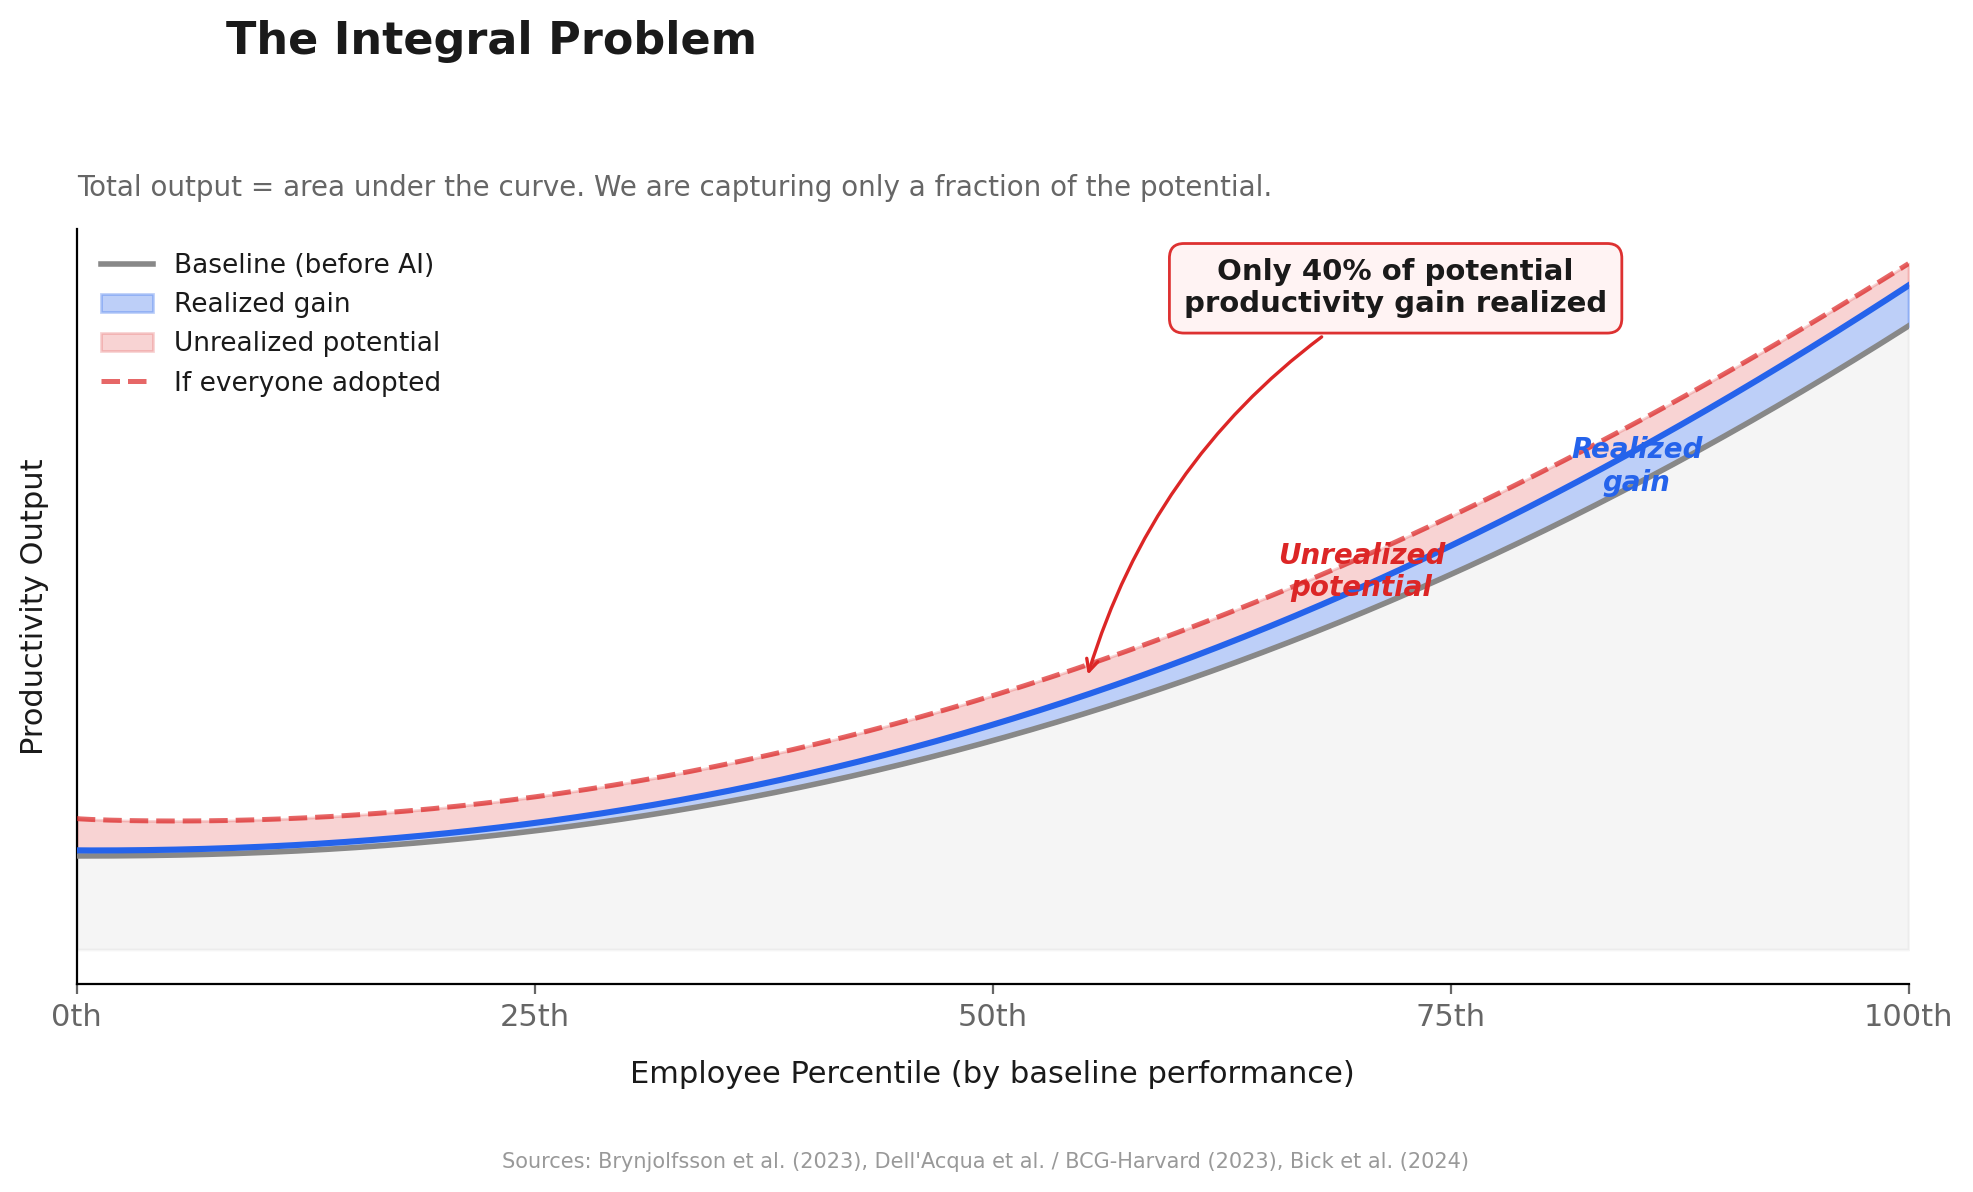
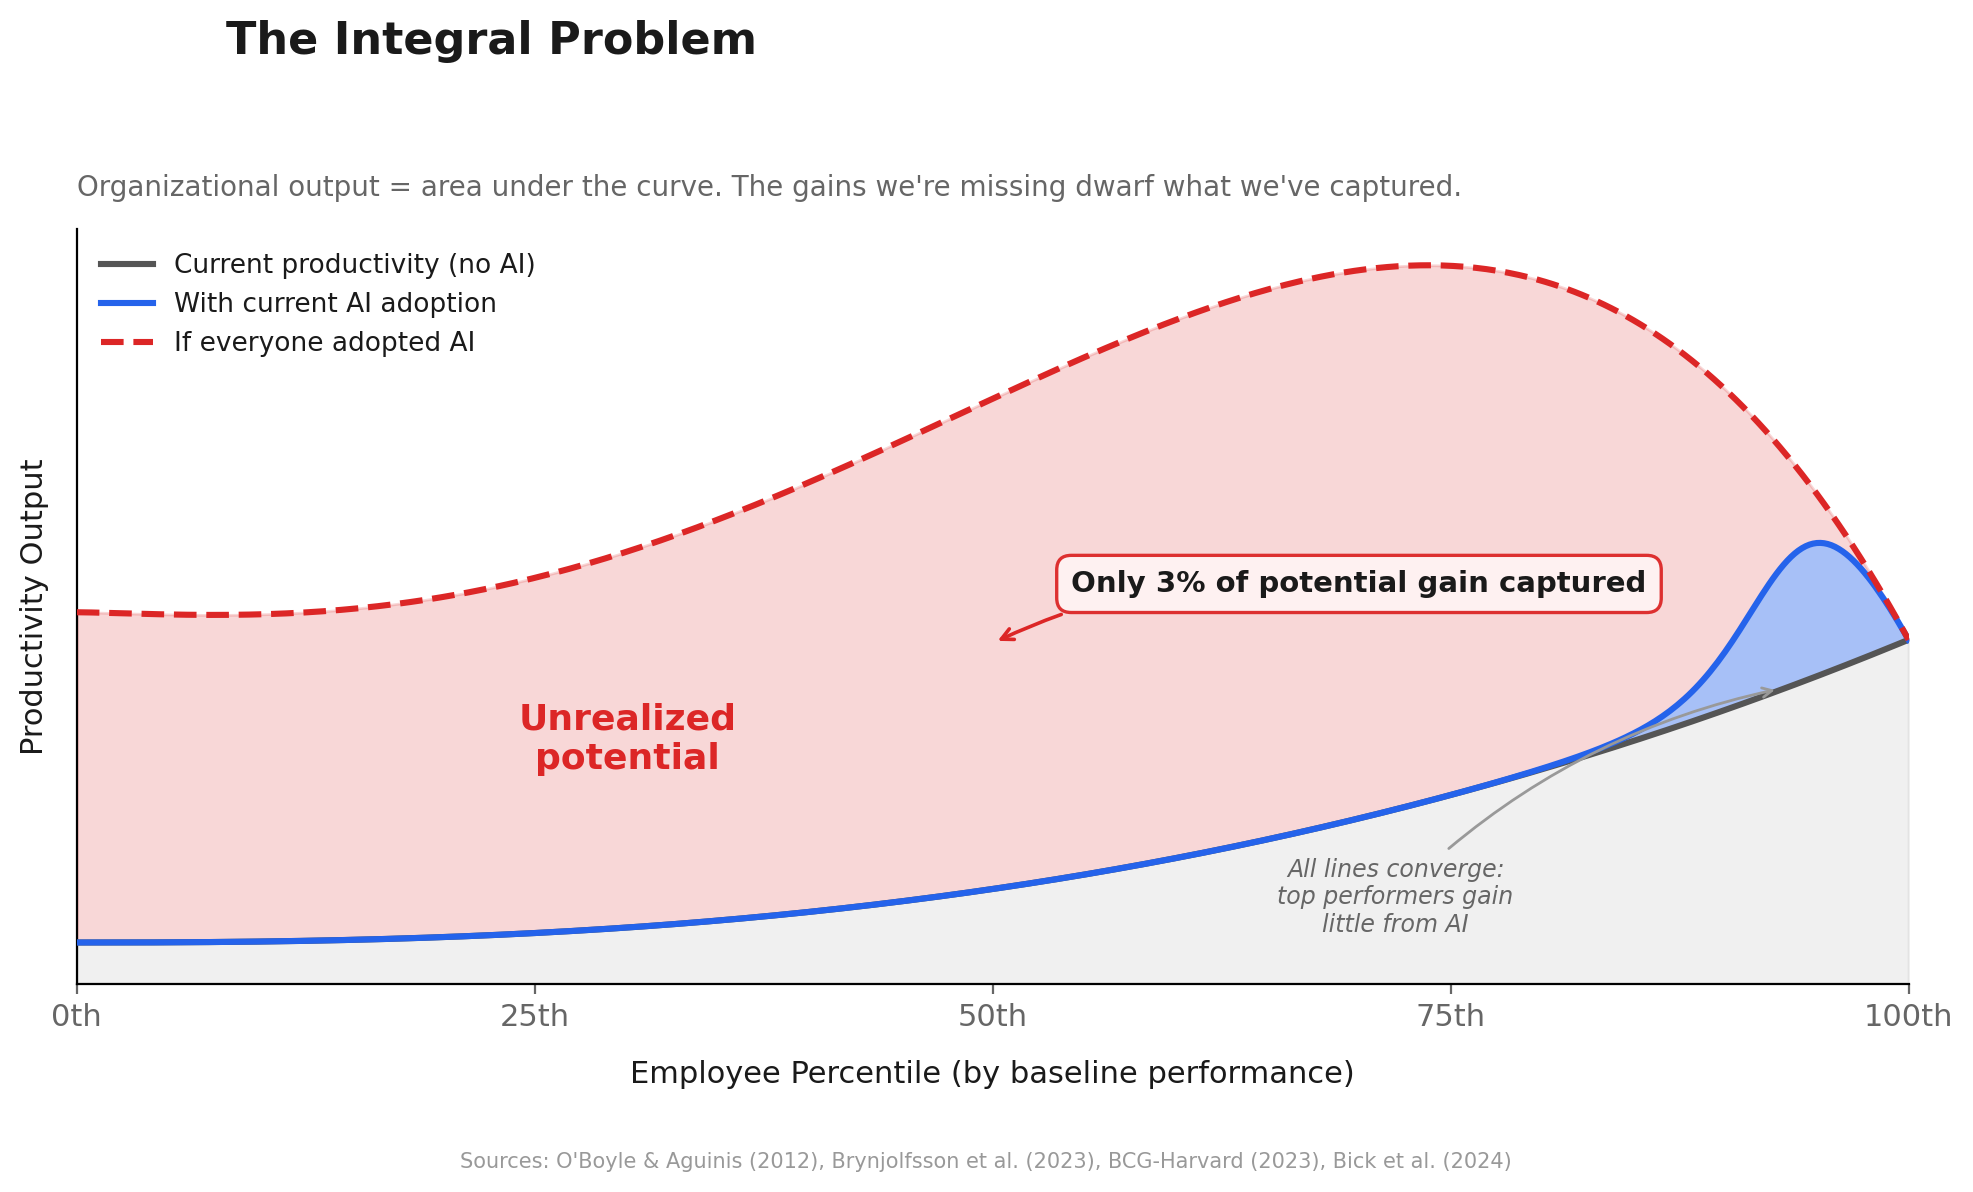
fix: rebuild integral problem chart with converging curves
Three-curve design: baseline, current adoption (top 5% only),
and universal adoption. Lines converge at top percentiles where
gains approach zero. Unrealized potential concentrated on left.

diff --git a/ai-productivity-gap/notebooks/chart2_the_integral_problem.py b/ai-productivity-gap/notebooks/chart2_the_integral_problem.py
@@ -1,23 +1,14 @@
 """
-Chart 2: The Integral Problem (area chart rework)
-Filled area chart showing three zones:
-  1. Baseline productivity (gray)
-  2. Realized gains (small blue area -- only where people actually adopt)
-  3. Unrealized potential (large red area -- the gap)
+Chart 2: The Integral Problem -- three-curve visualization
 
-The productivity curve follows a power-law distribution (right-skewed),
-reflecting that top performers have disproportionately high output.
+Three lines across employee percentiles:
+  1. Baseline productivity (power-law)
+  2. With current AI adoption (barely differs from baseline)
+  3. If everyone adopted AI (massive lift at bottom, converges to baseline at top)
 
-The "after AI" realized curve shows small uplift on the right (high adopters,
-low gain per person) and almost nothing on the left (high potential gain,
-but very low adoption). The theoretical "if everyone adopted" curve shows
-the full potential -- making the gap visually obvious.
-
-Data grounding:
-- Baseline productivity: power-law / right-skewed distribution
-- Bottom performers: +35-43% gain, ~15-20% adoption
-- Top performers: +7-17% gain, ~60-73% adoption
-- Sources: Brynjolfsson et al. (2023), Dell'Acqua et al. (2023), Bick et al. (2024)
+Key: individual gain from AI approaches 0 at the top (top performers
+don't gain much). All three lines converge at the 100th percentile.
+The unrealized potential is entirely on the left side.
 """
 
 import matplotlib
@@ -25,7 +16,6 @@ matplotlib.use('Agg')
 import matplotlib.pyplot as plt
 import numpy as np
 
-# --- Shared style ---
 plt.rcParams.update({
     'font.family': 'sans-serif',
     'font.size': 11,
@@ -42,116 +32,108 @@ plt.rcParams.update({
 fig, ax = plt.subplots(figsize=(10, 6))
 
 percentile = np.linspace(0, 100, 500)
-t = percentile / 100  # normalized 0-1
+t = percentile / 100
 
-# --- Baseline productivity: power-law / right-skewed ---
-# Follows a convex curve -- most employees cluster at moderate output,
-# top performers have disproportionately high output.
-baseline = 15 + 85 * (t ** 2.2)
+# --- Line 1: Baseline (power-law) ---
+baseline = 12 + 88 * (t ** 2.5)
 
-# --- Individual gain if using AI (decreases with percentile) ---
-# Bottom quintile: ~40% gain (Brynjolfsson +35%, Dell'Acqua +43%)
-# Top quintile: ~10% gain (Brynjolfsson ~0%, Dell'Acqua +17%, average ~10%)
-individual_gain_pct = 40 - 30 * (t ** 0.7)
+# --- Individual gain from AI ---
+# Bottom: ~800% (9x). Drops to 0% at 100th percentile.
+# Top performers are already productive; AI adds little.
+individual_gain_pct = 800 * (1 - t ** 1.5)
 
-# --- Adoption rate (increases with percentile) ---
-# Bottom: ~15%, Top: ~65% (Bick et al. ~20-40%, Dropbox 59-73%)
-adoption_rate = 15 + 50 * (t ** 1.3)
+# --- Adoption rate: sigmoid at ~93rd percentile ---
+# Near 0% until 85th, ramps to ~100% at 100th.
+adoption_rate = 100 / (1 + np.exp(-50 * (t - 0.93)))
 
-# --- Realized gain = baseline * gain% * adoption% ---
+# --- Line 2: Current reality ---
 realized_gain = baseline * (individual_gain_pct / 100) * (adoption_rate / 100)
+current_with_ai = baseline + realized_gain
 
-# --- Theoretical gain (if 100% adopted) ---
-theoretical_gain = baseline * (individual_gain_pct / 100)
+# --- Line 3: If everyone adopted ---
+full_gain = baseline * (individual_gain_pct / 100)
+everyone_adopted = baseline + full_gain
 
-# Curves
-after_ai = baseline + realized_gain
-theoretical_after = baseline + theoretical_gain
+# --- Stats ---
+area_baseline = np.trapezoid(baseline, percentile)
+area_current = np.trapezoid(current_with_ai, percentile)
+area_everyone = np.trapezoid(everyone_adopted, percentile)
+pct_realized = (area_current - area_baseline) / (area_everyone - area_baseline) * 100
 
-# --- Compute percentage realized ---
-total_theoretical_area = np.trapezoid(theoretical_gain, percentile)
-total_realized_area = np.trapezoid(realized_gain, percentile)
-pct_realized = total_realized_area / total_theoretical_area * 100
+# --- Plot ---
 
-# --- Plot filled areas (bottom to top) ---
+# Baseline fill and line
+ax.fill_between(percentile, 0, baseline, alpha=0.12, color='#888888', zorder=1)
+ax.plot(percentile, baseline, color='#555555', linewidth=2.2,
+        label='Current productivity (no AI)', zorder=5)
 
-# 1. Baseline productivity (gray fill)
-ax.fill_between(percentile, 0, baseline, alpha=0.08, color='#888888', zorder=1)
-ax.plot(percentile, baseline, color='#888888', linewidth=2, label='Baseline (before AI)',
-        zorder=3)
+# Realized gain (thin blue sliver)
+ax.fill_between(percentile, baseline, current_with_ai, alpha=0.40,
+                color='#2563eb', zorder=2)
+ax.plot(percentile, current_with_ai, color='#2563eb', linewidth=2.2,
+        label='With current AI adoption', zorder=5)
 
-# 2. Realized gains (blue fill between baseline and after_ai)
-ax.fill_between(percentile, baseline, after_ai, alpha=0.30, color='#2563eb',
-                label='Realized gain', zorder=2)
-
-# 3. Unrealized potential (red fill between after_ai and theoretical_after)
-ax.fill_between(percentile, after_ai, theoretical_after, alpha=0.20, color='#dc2626',
-                label='Unrealized potential', zorder=2)
-
-# Top boundary line -- theoretical max
-ax.plot(percentile, theoretical_after, color='#dc2626', linewidth=1.8,
-        linestyle='--', alpha=0.7, zorder=3, label='If everyone adopted')
-
-# After AI realized line
-ax.plot(percentile, after_ai, color='#2563eb', linewidth=2.2, zorder=4)
+# Unrealized potential (large red area)
+ax.fill_between(percentile, current_with_ai, everyone_adopted, alpha=0.18,
+                color='#dc2626', zorder=2)
+ax.plot(percentile, everyone_adopted, color='#dc2626', linewidth=2.2,
+        linestyle='--', label='If everyone adopted AI', zorder=5)
 
 # --- Annotations ---
 
-# Label the realized gain area -- place in the blue band on the far right
-# where the band is widest and clearly visible
-idx_85 = int(0.85 * len(percentile))
-realized_mid_y = (baseline[idx_85] + after_ai[idx_85]) / 2
-ax.annotate('Realized\ngain',
-            xy=(percentile[idx_85], realized_mid_y),
-            fontsize=10, color='#2563eb', fontweight='bold',
-            fontstyle='italic', ha='center', va='center', zorder=6)
-
-# Label the unrealized potential area -- place in the red band, offset from blue label
-idx_70 = int(0.70 * len(percentile))
-unrealized_mid_y = (after_ai[idx_70] + theoretical_after[idx_70]) / 2
+# "Unrealized potential" in the large red area
+idx_30 = int(0.30 * len(percentile))
+unrealized_mid = (current_with_ai[idx_30] + everyone_adopted[idx_30]) / 2
 ax.annotate('Unrealized\npotential',
-            xy=(percentile[idx_70], unrealized_mid_y),
-            fontsize=10, color='#dc2626', fontweight='bold',
-            fontstyle='italic', ha='center', va='center', zorder=6)
+            xy=(percentile[idx_30], unrealized_mid),
+            fontsize=13, color='#dc2626', fontweight='bold',
+            ha='center', va='center', zorder=6)
 
-# Percentage callout box -- position in the upper right area, clear of legend
-idx_arrow = int(0.55 * len(percentile))
-ax.annotate(f'Only {pct_realized:.0f}% of potential\nproductivity gain realized',
-            xy=(percentile[idx_arrow],
-                (after_ai[idx_arrow] + theoretical_after[idx_arrow]) / 2),
-            xytext=(72, theoretical_after[-1] * 0.92),
+# Callout box
+idx_50 = int(0.50 * len(percentile))
+ax.annotate(f'Only {pct_realized:.0f}% of potential gain captured',
+            xy=(50, (current_with_ai[idx_50] + everyone_adopted[idx_50]) / 2),
+            xytext=(70, everyone_adopted[int(0.25 * len(percentile))] * 0.95),
             fontsize=10.5, fontweight='bold', color='#1a1a1a',
             ha='center', va='bottom',
             bbox=dict(boxstyle='round,pad=0.5', facecolor='#fff3f3',
-                      edgecolor='#dc2626', linewidth=1, alpha=0.95),
-            arrowprops=dict(arrowstyle='->', color='#dc2626', lw=1.2,
-                            connectionstyle='arc3,rad=0.2'),
+                      edgecolor='#dc2626', linewidth=1.2, alpha=0.95),
+            arrowprops=dict(arrowstyle='->', color='#dc2626', lw=1.3,
+                            connectionstyle='arc3,rad=0.15'),
             zorder=7)
+
+# Convergence note at right
+ax.annotate('All lines converge:\ntop performers gain\nlittle from AI',
+            xy=(93, baseline[int(0.93 * len(percentile))]),
+            xytext=(72, baseline[int(0.60 * len(percentile))]),
+            fontsize=8.5, color='#666666', fontstyle='italic',
+            ha='center', va='top',
+            arrowprops=dict(arrowstyle='->', color='#999999', lw=1,
+                            connectionstyle='arc3,rad=-0.15'),
+            zorder=6)
 
 # --- Axes ---
 ax.set_xlabel('Employee Percentile (by baseline performance)', fontsize=11, labelpad=10)
 ax.set_ylabel('Productivity Output', fontsize=11, labelpad=10)
 ax.set_xlim(0, 100)
+ax.set_ylim(0, None)
 ax.set_xticks([0, 25, 50, 75, 100])
 ax.set_xticklabels(['0th', '25th', '50th', '75th', '100th'])
-ax.set_yticks([])  # qualitative y-axis
+ax.set_yticks([])
 
-# Legend
 ax.legend(loc='upper left', frameon=False, fontsize=9.5)
 
-# Title and subtitle
 fig.suptitle('The Integral Problem', fontsize=16, fontweight='bold',
              x=0.12, ha='left', y=0.97)
-ax.set_title('Total output = area under the curve. We are capturing only a fraction of the potential.',
+ax.set_title('Organizational output = area under the curve. The gains we\'re missing dwarf what we\'ve captured.',
              fontsize=10, color='#666666', loc='left', pad=12)
 
 plt.tight_layout(rect=[0, 0.05, 1, 0.93])
 
-# Source citations as figure caption below the chart
 fig.text(0.5, 0.01,
-         'Sources: Brynjolfsson et al. (2023), Dell\'Acqua et al. / BCG-Harvard (2023), Bick et al. (2024)',
+         'Sources: O\'Boyle & Aguinis (2012), Brynjolfsson et al. (2023), BCG-Harvard (2023), Bick et al. (2024)',
          fontsize=7.5, color='#999999', ha='center', va='bottom')
 
 plt.savefig('/Users/varunr/projects/short_projects/ai-productivity-gap/charts/02_the_integral_problem.png',
             dpi=200, bbox_inches='tight', facecolor='white')
-print(f'Saved charts/02_the_integral_problem.png (realized: {pct_realized:.1f}%)')
+print(f'Saved. Realized: {pct_realized:.0f}%. Baseline={area_baseline:.0f}, Current={area_current:.0f}, Everyone={area_everyone:.0f}')
